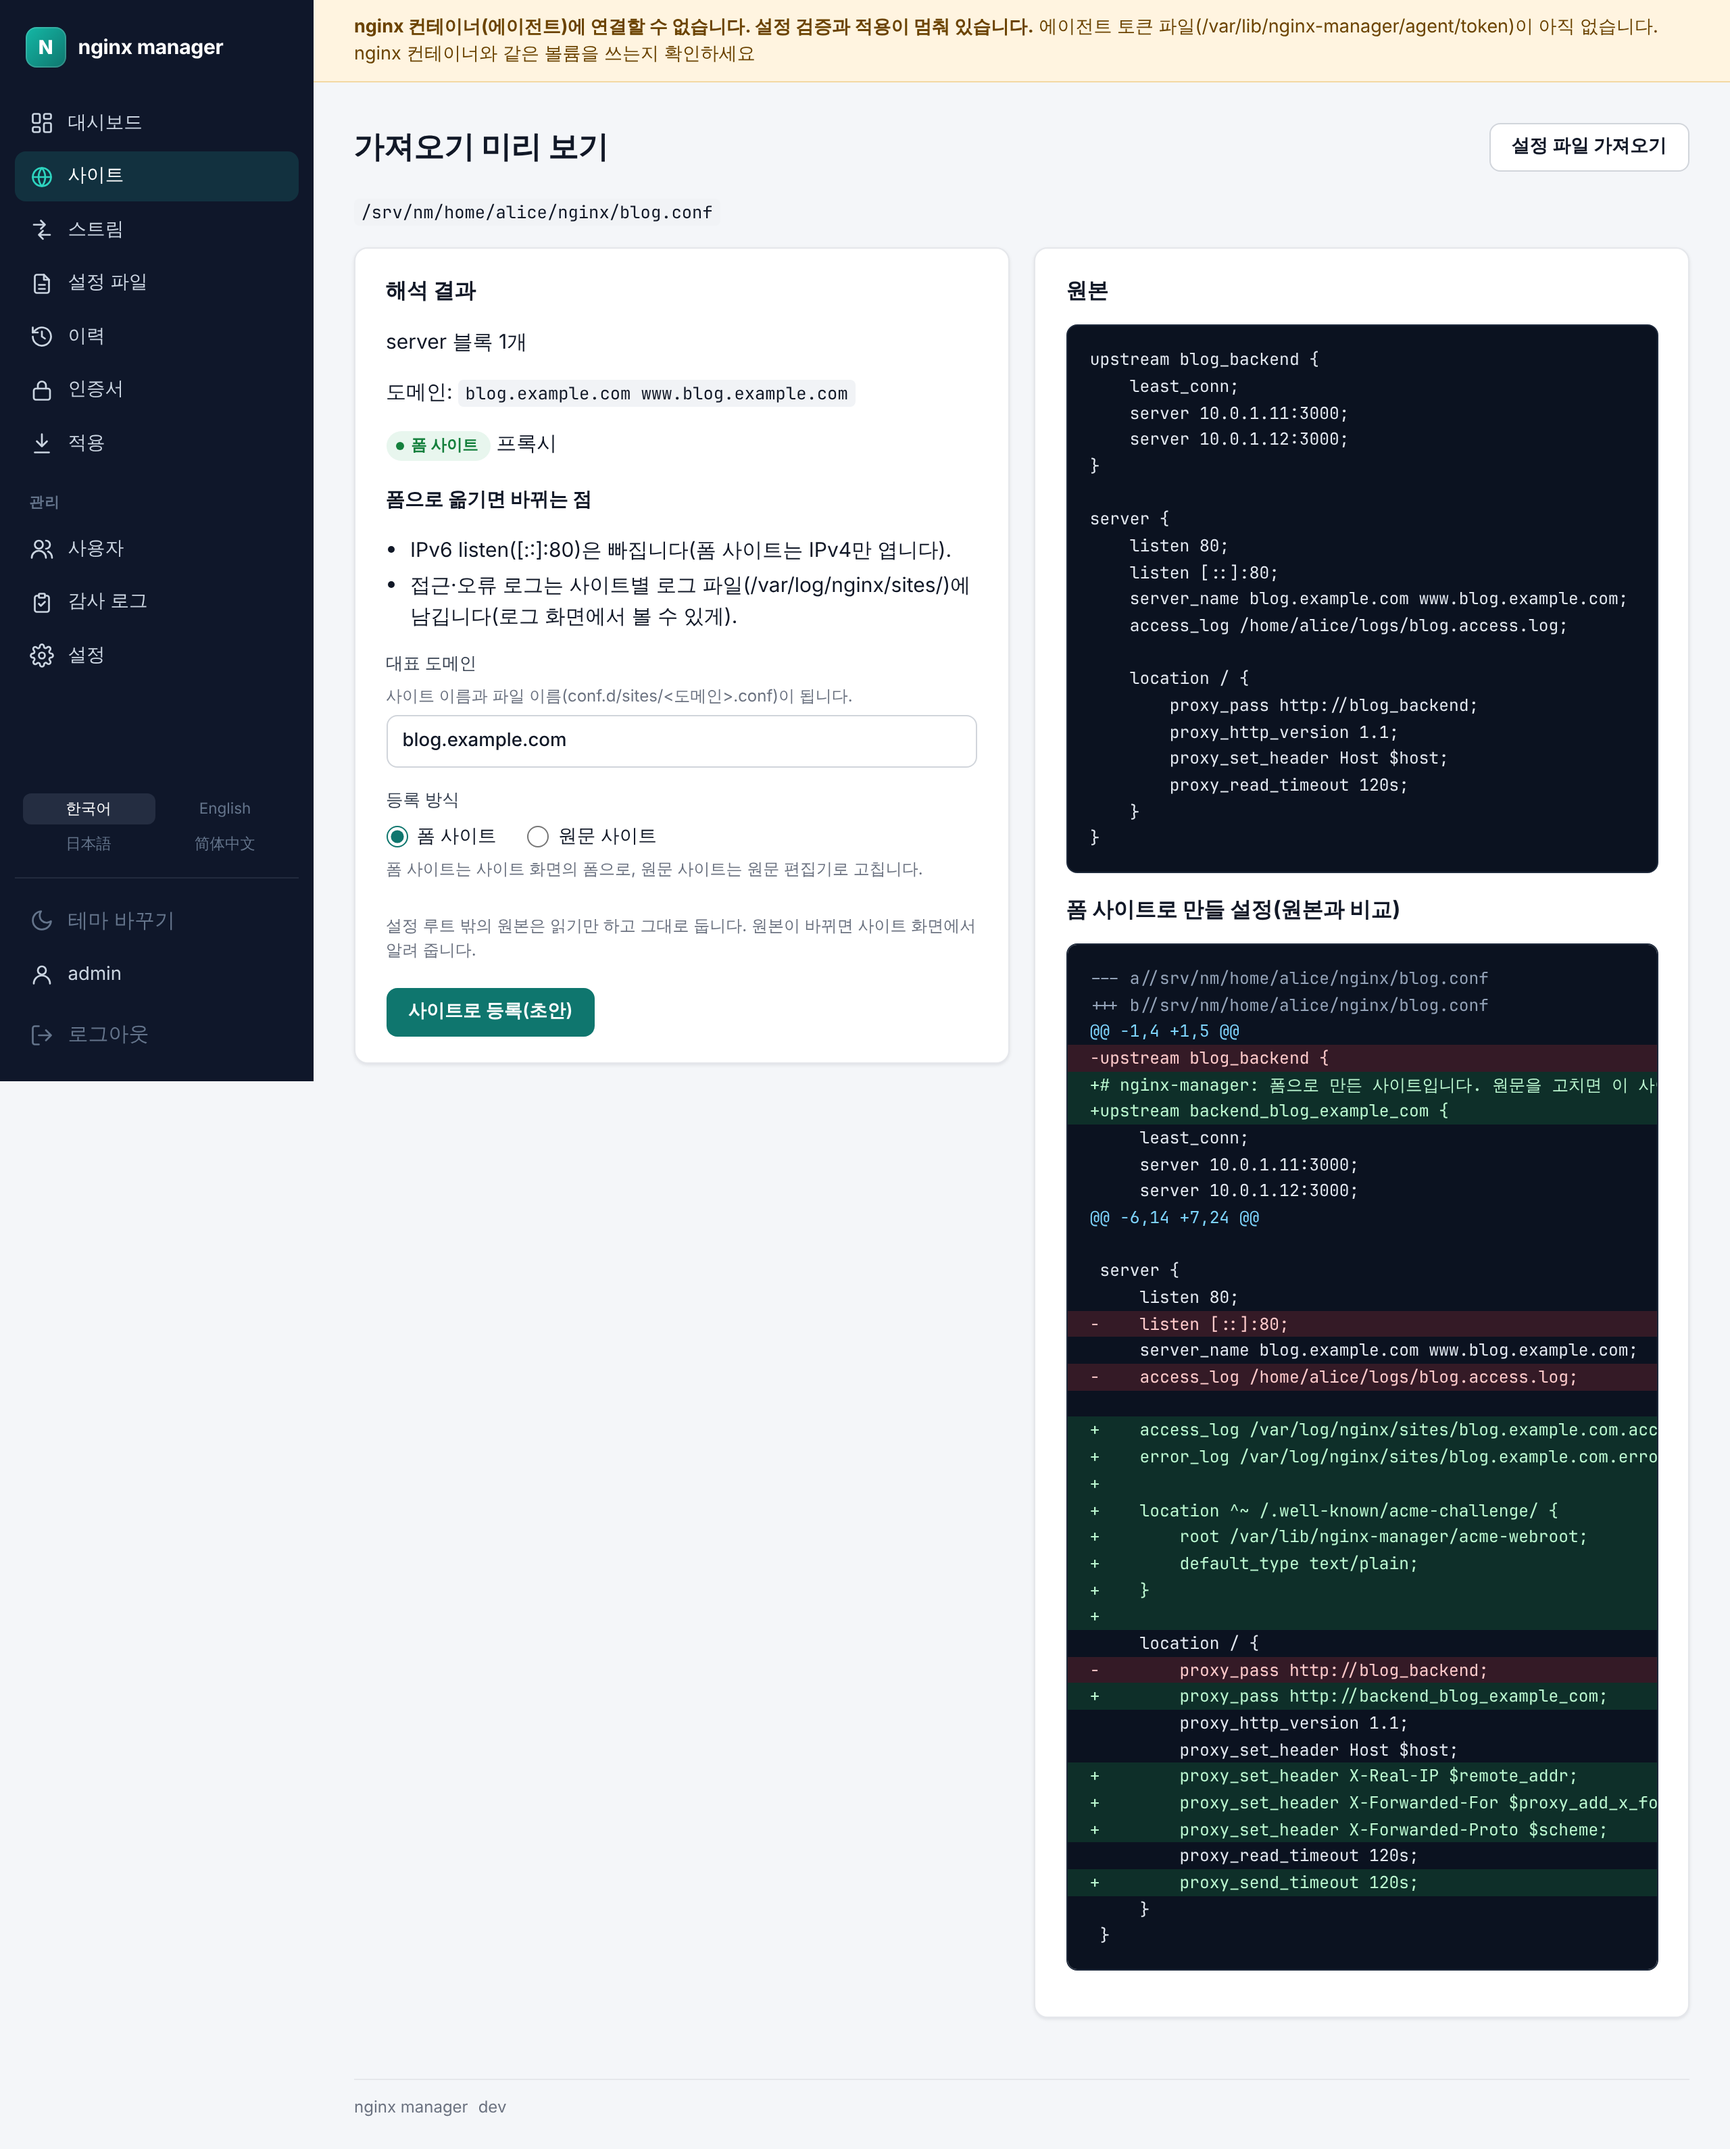
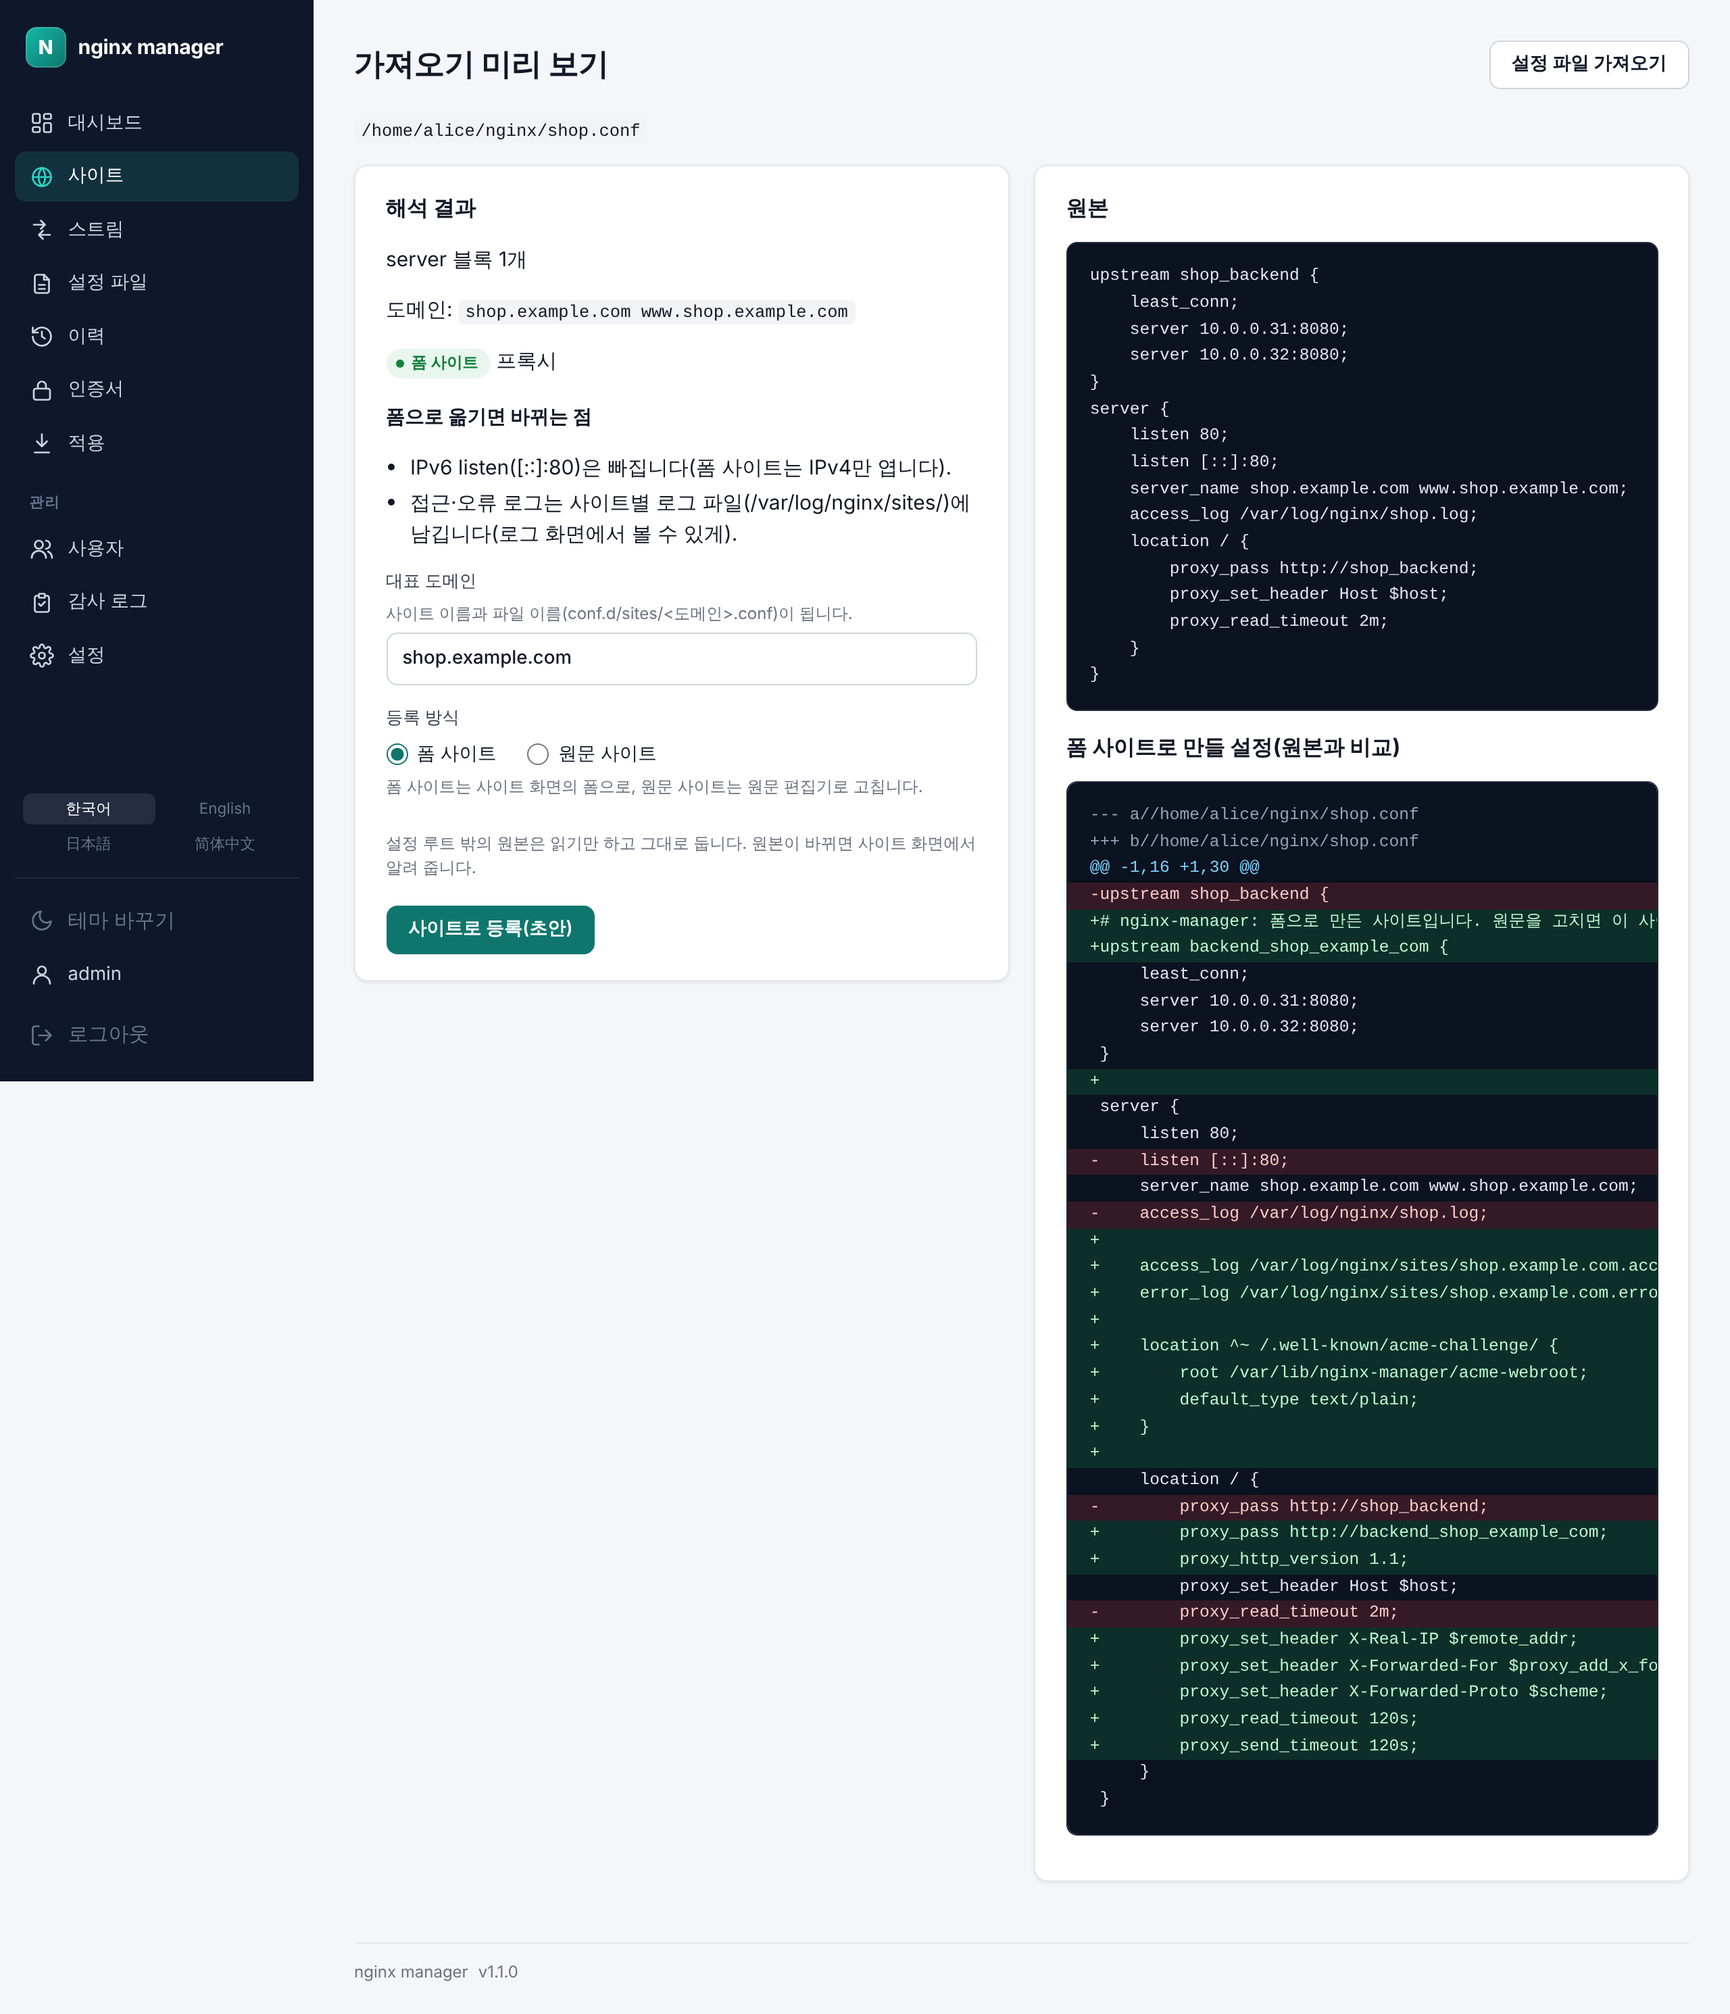
릴리스 노트 v1.0.0·v1.1.0 확정: 날짜, v1.1.0 화면 다시 찍기
- v1.0.0, v1.1.0 노트와 목록에 날짜(2026-10-29)를 적고 초안 안내를 뺀다
- v1.1.0 화면을 1.1.0으로 빌드한 이미지에서 다시 찍는다(가져오기 4장, 사이트 폼·목록·적용·휴대폰 메뉴)
- 화면 스크립트: IMPORT_PATTERN을 주면 설정 파일 가져오기 화면을, 마지막에 휴대폰 폭 화면을 찍는다

Claude-Session: https://claude.ai/code/session_016Kn5bDFire1QEGBv65BAtq

diff --git a/docs/releases/v1.1.0.md b/docs/releases/v1.1.0.md
@@ -1,12 +1,10 @@
 # v1.1.0 — 쓰던 nginx 설정 파일을 사이트로 가져오기, 쓰기 편해진 관리 화면
 
-- 날짜: 출시 예정
+- 날짜: 2026-10-29
 - 이미지: `ghcr.io/nginx-manager/app:1.1.0`, `ghcr.io/nginx-manager/nginx:1.1.0`
-- nginx: v1.0.0과 같음
+- nginx: 1.31.6 (v1.0.0과 같음)
 
 이미 운영하던 nginx 설정 파일을 관리도구의 사이트로 옮겨 올 수 있습니다. `/home/*/nginx/*.conf`처럼 경로 패턴을 등록하면 맞는 파일을 모두 찾아 한꺼번에 등록하고, 원본이 바뀌면 알려 줍니다. 1.0.0의 화면을 처음부터 끝까지 다시 써 보며 불편했던 곳도 다듬었습니다(명세: nginx-manager/docs `specs/004-ui-usability/`).
-
-> 화면은 개발 중 그림입니다. 릴리스할 때 [릴리스 절차](README.md#릴리스-절차)대로 실제 스택에서 다시 찍습니다.
 
 ## 설정 파일 가져오기
 
@@ -19,9 +17,13 @@
 - 가져온 사이트는 `conf.d/sites/<도메인>.conf` 초안이 되고, 다른 변경과 같이 적용 화면에서 확인한 뒤 반영됩니다. `/etc/nginx` 안의 원본은 삭제 초안과 함께 적용되고 함께 버려집니다. 그 밖의 원본은 읽기만 합니다.
 - 원본이 바뀌면 사이트 화면에서 **원본에서 다시 가져오기**로 새 초안을 만듭니다(HTTPS 등 관리도구에서만 정한 설정은 유지).
 
-<p align="center"><img src="images/v1.1.0/import-scan.png" alt="가져오기 위치와 검사 결과" width="960"></p>
-<p align="center"><img src="images/v1.1.0/import-preview-form.png" alt="폼 사이트로 가져오기 미리 보기" width="800"></p>
-<p align="center"><img src="images/v1.1.0/import-apply.png" alt="가져온 사이트 초안을 적용 화면에서 확인" width="820"></p>
+<p align="center"><img src="images/v1.1.0/import-scan.png" alt="가져오기 위치와 검사 결과" width="860"></p>
+
+<p align="center"><img src="images/v1.1.0/import-preview-form.png" alt="폼 사이트로 가져오기 미리 보기" width="860"></p>
+
+<p align="center"><img src="images/v1.1.0/import-preview-raw.png" alt="원문 사이트로 가져오기 미리 보기" width="860"></p>
+
+<p align="center"><img src="images/v1.1.0/import-apply.png" alt="가져온 사이트 초안을 적용 화면에서 확인" width="860"></p>
 
 ## 사이트 폼은 고른 유형의 항목만 보여 줍니다
 
@@ -29,6 +31,8 @@
 
 - 유형을 바꾸자마자 다른 칸을 입력해도 설정 미리보기가 마지막 입력까지 반영합니다.
 - 넓은 화면에서는 긴 폼을 내려도 미리보기가 화면에 남습니다(사이트·스트림 추가).
+
+<p align="center"><img src="images/v1.1.0/site-form.png" alt="리버스 프록시 항목만 보이는 사이트 폼" width="860"></p>
 
 ## 목록과 적용 화면
 
@@ -38,10 +42,16 @@
 - 대시보드의 설치된 모듈 목록은 접어 두고, 제목을 누르면 펼칩니다.
 - 사용자 추가의 역할 선택이 영문 코드 대신 화면의 역할 이름으로 보입니다.
 
+<p align="center"><img src="images/v1.1.0/sites.png" alt="대상 칸이 보이는 사이트 목록" width="860"></p>
+
+<p align="center"><img src="images/v1.1.0/apply-diff.png" alt="파일마다 접히고 줄 수가 보이는 적용 화면" width="860"></p>
+
 ## 휴대폰에서
 
 - 좁은 화면에서는 가로로 밀어 보던 메뉴 대신 오른쪽 위 메뉴 버튼으로 메뉴를 엽니다. 적용 대기 수는 버튼에도 보입니다.
 - 사이트·스트림 화면의 긴 설정 줄이 페이지 전체를 옆으로 밀던 문제를 고쳤습니다. 설정 원문은 상자 안에서만 가로로 스크롤됩니다.
+
+<p align="center"><img src="images/v1.1.0/mobile-menu.png" alt="휴대폰 폭에서 메뉴 버튼으로 연 메뉴" width="300"></p>
 
 ## 고친 문제
 

diff --git a/docs/releases/v1.0.0.md b/docs/releases/v1.0.0.md
@@ -1,10 +1,8 @@
 # v1.0.0 — 첫 정식 릴리스: 사이트·스트림 관리, 안전한 적용, 이력과 되돌리기, HTTPS 자동화
 
-- 날짜: 출시 예정
+- 날짜: 2026-10-29
 - 이미지: `ghcr.io/nginx-manager/app:1.0.0`, `ghcr.io/nginx-manager/nginx:1.0.0-nginx1.31.6`
 - nginx: 1.31.6 (오픈소스, 전체 모듈 빌드)
-
-> 출시 전 초안입니다. 1.0.0까지 남은 개선을 더하면서 이 노트를 함께 고치고, 출시할 때 날짜를 적고 화면을 다시 찍습니다.
 
 브라우저에서 nginx를 관리하는 첫 정식 버전입니다. nginx와 관리 화면이 컨테이너 두 개로 돌고, `docker compose`로 띄운 뒤 `http://<호스트>:9000`에서 최초 관리자 계정을 만들면 바로 씁니다.
 
